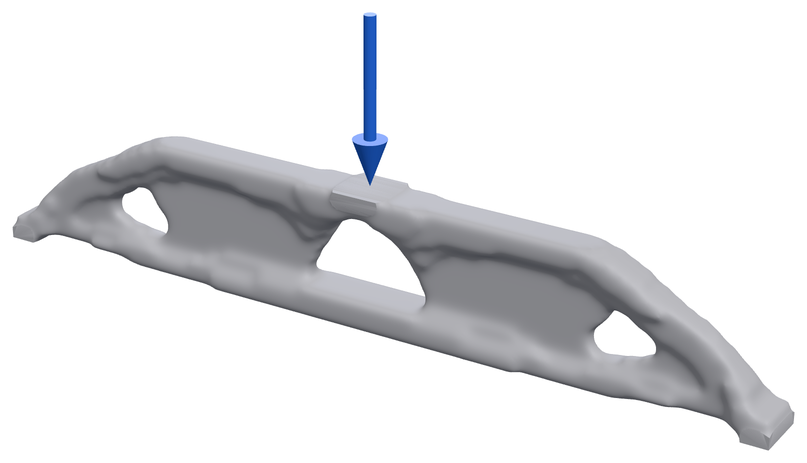
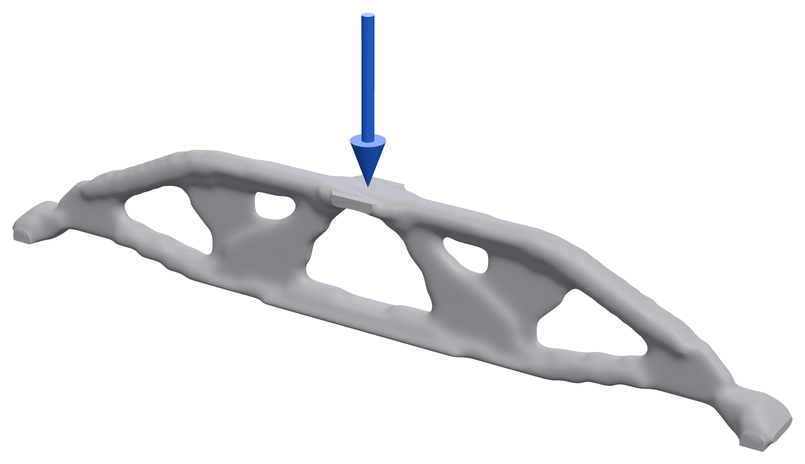
README gallery: tet-confirmed full baseline run (063c233)
Claude-Session: https://claude.ai/code/session_01HFwANXA384C93t539sMM8N

diff --git a/docs/GALLERY.md b/docs/GALLERY.md
@@ -1,14 +1,14 @@
 # Gallery
 
-Rendered 2026-11-01 from the tet-checked `ab4bf9e` eval run by `python docs/gallery.py`.
+Rendered 2026-11-01 from the tet-confirmed full baseline run (`063c233`) by `python docs/gallery.py`.
 
 Regenerate with the commands at the top of [`gallery.py`](gallery.py). Stress maps colour worst-case von Mises stress against the part's own 98th percentile, to show the load paths, on the shape bent by the worst load case, exaggerated; the margin against the material is the SF.
 
 ## arm-link-cast
 
-67.8 g · 46% lighter · SF 16.13 · pass
+67.8 g · 46% lighter · SF 20.85 · pass
 
-<sub>deflection 0.478 mm · p5Member 5.35 mm · creaseLength 0.0 mm · volumeFraction 45% · 390 s</sub>
+<sub>deflection 0.478 mm · p5Member 5.35 mm · creaseLength 0.0 mm · volumeFraction 45% · 494 s</sub>
 
 ![arm-link-cast](images/cases/arm-link-cast-views.png)
 
@@ -18,7 +18,7 @@ Regenerate with the commands at the top of [`gallery.py`](gallery.py). Stress ma
 
 51.3 g · 59% lighter · SF 12.50 · pass
 
-<sub>deflection 0.362 mm · p5Member 3.41 mm · creaseLength 0.0 mm · volumeFraction 32% · 522 s</sub>
+<sub>deflection 0.362 mm · p5Member 3.41 mm · creaseLength 0.0 mm · volumeFraction 32% · 374 s</sub>
 
 ![arm-link-driven](images/cases/arm-link-driven-views.png)
 
@@ -26,9 +26,9 @@ Regenerate with the commands at the top of [`gallery.py`](gallery.py). Stress ma
 
 ## arm-link
 
-56.7 g · 55% lighter · SF 8.16 · pass
+54.2 g · 57% lighter · SF 10.97 · pass
 
-<sub>deflection 0.449 mm · p5Member 1.47 mm · creaseLength 0.0 mm · volumeFraction 39% · 361 s</sub>
+<sub>deflection 0.489 mm · p5Member 1.46 mm · creaseLength 0.0 mm · volumeFraction 36% · 901 s</sub>
 
 ![arm-link](images/cases/arm-link-views.png)
 
@@ -36,9 +36,9 @@ Regenerate with the commands at the top of [`gallery.py`](gallery.py). Stress ma
 
 ## bell-crank
 
-23.8 g · 84% lighter · SF 3.83 · pass
+23.8 g · 84% lighter · SF 4.90 · pass
 
-<sub>deflection 0.066 mm · p5Member 4.19 mm · creaseLength 0.0 mm · volumeFraction 7% · 294 s</sub>
+<sub>deflection 0.066 mm · p5Member 4.19 mm · creaseLength 0.0 mm · volumeFraction 7% · 374 s</sub>
 
 ![bell-crank](images/cases/bell-crank-views.png)
 
@@ -48,7 +48,7 @@ Regenerate with the commands at the top of [`gallery.py`](gallery.py). Stress ma
 
 142.1 g · 91% lighter · SF 2.45 · pass
 
-<sub>deflection 0.767 mm · p5Member 5.49 mm · creaseLength 32.7 mm · volumeFraction 2% · 757 s</sub>
+<sub>deflection 0.767 mm · p5Member 5.49 mm · creaseLength 32.7 mm · volumeFraction 2% · 1025 s</sub>
 
 ![grip-turret](images/cases/grip-turret-views.png)
 
@@ -56,9 +56,9 @@ Regenerate with the commands at the top of [`gallery.py`](gallery.py). Stress ma
 
 ## grip-upper-arm
 
-208.1 g · 88% lighter · SF 7.41 · pass
+208.1 g · 88% lighter · SF 5.83 · pass
 
-<sub>deflection 0.515 mm · p5Member 4.96 mm · creaseLength 35.3 mm · volumeFraction 7% · 1169 s</sub>
+<sub>deflection 0.515 mm · p5Member 4.96 mm · creaseLength 35.3 mm · volumeFraction 7% · 1383 s</sub>
 
 ![grip-upper-arm](images/cases/grip-upper-arm-views.png)
 
@@ -68,7 +68,7 @@ Regenerate with the commands at the top of [`gallery.py`](gallery.py). Stress ma
 
 41.0 g · 95% lighter · SF 3.71 · pass
 
-<sub>deflection 0.530 mm · p5Member 1.83 mm · creaseLength 0.5 mm · volumeFraction 6% · 3773 s</sub>
+<sub>deflection 0.530 mm · p5Member 1.83 mm · creaseLength 0.5 mm · volumeFraction 6% · 2234 s</sub>
 
 ![grip-wrist-link-mjf](images/cases/grip-wrist-link-mjf-views.png)
 
@@ -76,9 +76,9 @@ Regenerate with the commands at the top of [`gallery.py`](gallery.py). Stress ma
 
 ## grip-wrist-yoke
 
-22.0 g · 91% lighter · SF 2.97 · pass
+22.0 g · 91% lighter · SF 4.24 · pass
 
-<sub>deflection 0.122 mm · p5Member 3.41 mm · creaseLength 0.0 mm · volumeFraction 8% · 564 s</sub>
+<sub>deflection 0.112 mm · p5Member 3.41 mm · creaseLength 0.0 mm · volumeFraction 8% · 810 s</sub>
 
 ![grip-wrist-yoke](images/cases/grip-wrist-yoke-views.png)
 
@@ -86,9 +86,9 @@ Regenerate with the commands at the top of [`gallery.py`](gallery.py). Stress ma
 
 ## mbb-beam
 
-27.9 g · 57% lighter · SF 1.74 · pass
+14.2 g · 78% lighter · SF 1.51 · pass
 
-<sub>deflection 1.489 mm · p5Member 4.25 mm · creaseLength 0.0 mm · volumeFraction 44% · 853 s</sub>
+<sub>deflection 3.008 mm · p5Member 1.01 mm · creaseLength 0.0 mm · volumeFraction 23% · 1607 s</sub>
 
 ![mbb-beam](images/cases/mbb-beam-views.png)
 
@@ -98,7 +98,7 @@ Regenerate with the commands at the top of [`gallery.py`](gallery.py). Stress ma
 
 27.6 g · 69% lighter · SF 4.07 · pass
 
-<sub>deflection 0.431 mm · p5Member 1.46 mm · creaseLength 0.0 mm · volumeFraction 30% · 136 s</sub>
+<sub>deflection 0.431 mm · p5Member 1.46 mm · creaseLength 0.0 mm · volumeFraction 30% · 129 s</sub>
 
 ![motor-mount](images/cases/motor-mount-views.png)
 
@@ -106,9 +106,9 @@ Regenerate with the commands at the top of [`gallery.py`](gallery.py). Stress ma
 
 ## printed-hook
 
-30.9 g · 80% lighter · SF 3.13 · pass
+27.4 g · 82% lighter · SF 2.73 · pass
 
-<sub>deflection 0.850 mm · p5Member 3.41 mm · creaseLength 0.0 mm · volumeFraction 20% · 1054 s</sub>
+<sub>deflection 1.041 mm · p5Member 3.41 mm · creaseLength 0.0 mm · volumeFraction 18% · 2438 s</sub>
 
 ![printed-hook](images/cases/printed-hook-views.png)
 
@@ -116,9 +116,9 @@ Regenerate with the commands at the top of [`gallery.py`](gallery.py). Stress ma
 
 ## wall-bracket-fasteners
 
-42.3 g · 90% lighter · SF 2.53 · pass
+41.0 g · 90% lighter · SF 2.89 · pass
 
-<sub>deflection 0.316 mm · p5Member 4.55 mm · creaseLength 0.0 mm · volumeFraction 6% · 358 s</sub>
+<sub>deflection 0.552 mm · p5Member 4.55 mm · creaseLength 0.0 mm · volumeFraction 6% · 790 s</sub>
 
 ![wall-bracket-fasteners](images/cases/wall-bracket-fasteners-views.png)
 
@@ -126,9 +126,9 @@ Regenerate with the commands at the top of [`gallery.py`](gallery.py). Stress ma
 
 ## wall-bracket
 
-71.9 g · 83% lighter · SF 2.96 · pass
+64.4 g · 85% lighter · SF 2.75 · pass
 
-<sub>deflection 0.143 mm · p5Member 4.55 mm · creaseLength 0.0 mm · volumeFraction 13% · 403 s</sub>
+<sub>deflection 0.199 mm · p5Member 4.55 mm · creaseLength 0.0 mm · volumeFraction 11% · 381 s</sub>
 
 ![wall-bracket](images/cases/wall-bracket-views.png)
 

diff --git a/README.md b/README.md
@@ -78,27 +78,27 @@ The eval cases (14/14 passing): GRIP robot-arm style parts, each optimized and t
 
 <table>
 <tr>
-<td align="center" valign="top"><img src="docs/images/cases/arm-link-cast.png" width="250"><br><b>arm-link-cast</b><br><sub>67.8 g · 46% lighter · SF 16.13 · pass</sub></td>
+<td align="center" valign="top"><img src="docs/images/cases/arm-link-cast.png" width="250"><br><b>arm-link-cast</b><br><sub>67.8 g · 46% lighter · SF 20.85 · pass</sub></td>
 <td align="center" valign="top"><img src="docs/images/cases/arm-link-driven.png" width="250"><br><b>arm-link-driven</b><br><sub>51.3 g · 59% lighter · SF 12.50 · pass</sub></td>
-<td align="center" valign="top"><img src="docs/images/cases/arm-link.png" width="250"><br><b>arm-link</b><br><sub>56.7 g · 55% lighter · SF 8.16 · pass</sub></td>
+<td align="center" valign="top"><img src="docs/images/cases/arm-link.png" width="250"><br><b>arm-link</b><br><sub>54.2 g · 57% lighter · SF 10.97 · pass</sub></td>
 </tr>
 <tr>
-<td align="center" valign="top"><img src="docs/images/cases/bell-crank.png" width="250"><br><b>bell-crank</b><br><sub>23.8 g · 84% lighter · SF 3.83 · pass</sub></td>
+<td align="center" valign="top"><img src="docs/images/cases/bell-crank.png" width="250"><br><b>bell-crank</b><br><sub>23.8 g · 84% lighter · SF 4.90 · pass</sub></td>
 <td align="center" valign="top"><img src="docs/images/cases/grip-turret.png" width="250"><br><b>grip-turret</b><br><sub>142.1 g · 91% lighter · SF 2.45 · pass</sub></td>
-<td align="center" valign="top"><img src="docs/images/cases/grip-upper-arm.png" width="250"><br><b>grip-upper-arm</b><br><sub>208.1 g · 88% lighter · SF 7.41 · pass</sub></td>
+<td align="center" valign="top"><img src="docs/images/cases/grip-upper-arm.png" width="250"><br><b>grip-upper-arm</b><br><sub>208.1 g · 88% lighter · SF 5.83 · pass</sub></td>
 </tr>
 <tr>
 <td align="center" valign="top"><img src="docs/images/cases/grip-wrist-link-mjf.png" width="250"><br><b>grip-wrist-link-mjf</b><br><sub>41.0 g · 95% lighter · SF 3.71 · pass</sub></td>
-<td align="center" valign="top"><img src="docs/images/cases/grip-wrist-yoke.png" width="250"><br><b>grip-wrist-yoke</b><br><sub>22.0 g · 91% lighter · SF 2.97 · pass</sub></td>
-<td align="center" valign="top"><img src="docs/images/cases/mbb-beam.png" width="250"><br><b>mbb-beam</b><br><sub>27.9 g · 57% lighter · SF 1.74 · pass</sub></td>
+<td align="center" valign="top"><img src="docs/images/cases/grip-wrist-yoke.png" width="250"><br><b>grip-wrist-yoke</b><br><sub>22.0 g · 91% lighter · SF 4.24 · pass</sub></td>
+<td align="center" valign="top"><img src="docs/images/cases/mbb-beam.png" width="250"><br><b>mbb-beam</b><br><sub>14.2 g · 78% lighter · SF 1.51 · pass</sub></td>
 </tr>
 <tr>
 <td align="center" valign="top"><img src="docs/images/cases/motor-mount.png" width="250"><br><b>motor-mount</b><br><sub>27.6 g · 69% lighter · SF 4.07 · pass</sub></td>
-<td align="center" valign="top"><img src="docs/images/cases/printed-hook.png" width="250"><br><b>printed-hook</b><br><sub>30.9 g · 80% lighter · SF 3.13 · pass</sub></td>
-<td align="center" valign="top"><img src="docs/images/cases/wall-bracket-fasteners.png" width="250"><br><b>wall-bracket-fasteners</b><br><sub>42.3 g · 90% lighter · SF 2.53 · pass</sub></td>
+<td align="center" valign="top"><img src="docs/images/cases/printed-hook.png" width="250"><br><b>printed-hook</b><br><sub>27.4 g · 82% lighter · SF 2.73 · pass</sub></td>
+<td align="center" valign="top"><img src="docs/images/cases/wall-bracket-fasteners.png" width="250"><br><b>wall-bracket-fasteners</b><br><sub>41.0 g · 90% lighter · SF 2.89 · pass</sub></td>
 </tr>
 <tr>
-<td align="center" valign="top"><img src="docs/images/cases/wall-bracket.png" width="250"><br><b>wall-bracket</b><br><sub>71.9 g · 83% lighter · SF 2.96 · pass</sub></td>
+<td align="center" valign="top"><img src="docs/images/cases/wall-bracket.png" width="250"><br><b>wall-bracket</b><br><sub>64.4 g · 85% lighter · SF 2.75 · pass</sub></td>
 </tr>
 </table>
 
@@ -124,7 +124,7 @@ Made another way: the same arm link printed, cast (no undercuts along z), 3-axis
 
 ![manufacturing constraints](docs/images/manufacturing/arm-link.png)
 
-<sub>Rendered 2026-11-01 from the tet-checked `ab4bf9e` eval run by `python docs/gallery.py`.</sub>
+<sub>Rendered 2026-11-01 from the tet-confirmed full baseline run (`063c233`) by `python docs/gallery.py`.</sub>
 
 <!-- gallery:end -->
 
